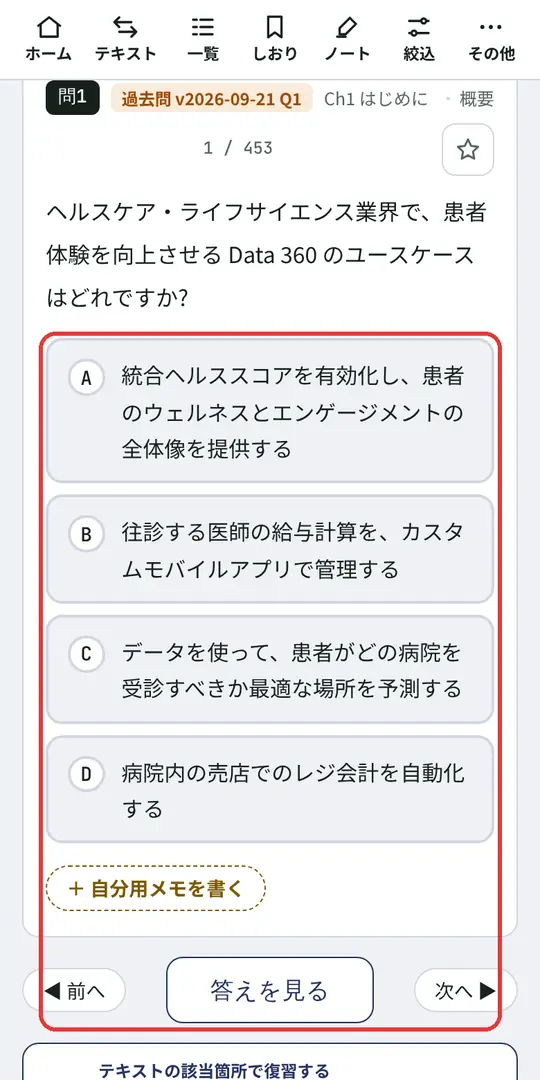
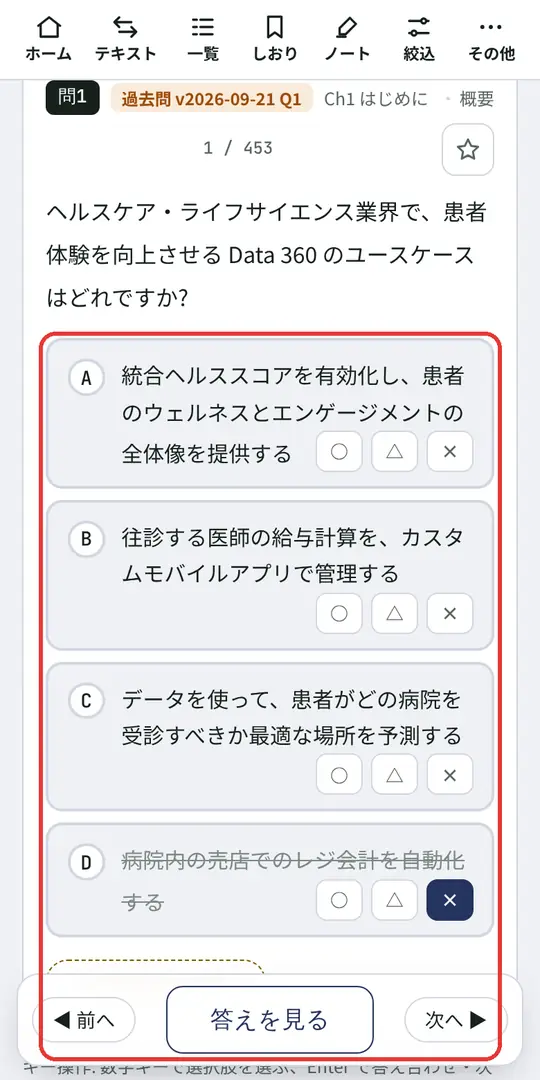
選択肢に「○ △ ×」の自分用の印(社労士版の択一と同じ)
- 問題集(4択・5択・2つ選択・組合せ)とトレーニングの選択肢の右下に ○(正しいと思う)・△(迷っている)・×(誤りだと思う)。
  押しても選択肢は選ばれず、もう一度押すと消える。× は取り消し線。
- 印は文の終わりの空きに重ねるので、短い文は同じ行、長い文は次の行の右端に入る。
- 保存は cs-optmk-v1(問題ごと・アカウントに同期)。答え合わせで隠れてその問題の印は消え、「もう一度解く」はまっさらから。
- 初めて使うまで選択肢の下に説明を出す。使い方・仕様・更新情報と、使い方の画面写真(問題集・トレーニング)を更新。

Claude-Session: https://claude.ai/code/session_01Jp4Dyyf8t6QTx62ivKWhuS

Changed region(s): [[0.0296, 0.3972, 0.9778, 1.0], [0.8889, 0.6722, 0.9185, 0.7028]]

diff --git a/commitstudy/guide/run2.js b/commitstudy/guide/run2.js
@@ -18,7 +18,7 @@ await p.evaluate(()=>{const f=document.querySelector('#f-stream figure');f.scrol
 await p.evaluate(()=>{const li=document.querySelector('#f-stream .co.memo li')||document.querySelector('#f-stream li');li.scrollIntoView({block:'center'});const r=document.createRange();const t=li.firstChild;r.setStart(t,0);r.setEnd(t,Math.min(18,t.length));const s=getSelection();s.removeAllRanges();s.addRange(r);document.dispatchEvent(new Event('selectionchange'));li.dispatchEvent(new MouseEvent('mouseup',{bubbles:true}))});await p.waitForTimeout(600);await shot('text_sel',['.selbar']);
 await p.evaluate(()=>getSelection().removeAllRanges());
 await p.evaluate(()=>{const d=document.querySelector('#f-stream .done-row');d.scrollIntoView({block:'center'})});await shot('text_end',['#f-stream .done-row']);
-await p.go('/d360/#quiz',5500);await p.evaluate(()=>scrollTo(0,120));await shot('quiz',['[data-act="mopt"] ~~ [data-act="check"]']);
+await p.go('/d360/#quiz',5500);await p.evaluate(()=>{const k=[...document.querySelectorAll('.omk [data-omk="x"]')].filter(x=>x.offsetParent);k.length&&k[k.length-1].click()});await p.evaluate(()=>scrollTo(0,120));await shot('quiz',['[data-act="mopt"] ~~ [data-act="check"]']);
 await p.evaluate(()=>{const e=[...document.querySelectorAll('[data-act="mopt"]')].find(x=>x.offsetParent);e.click();const c=[...document.querySelectorAll('[data-act="check"]')].find(x=>x.offsetParent);c.click()});await p.waitForTimeout(700);
 await p.evaluate(()=>{const e=document.querySelector('.banner')||document.querySelector('#qtext');e&&e.scrollIntoView({block:'start'});scrollBy(0,-90)});await shot('quiz_ans',['.exp']);
 await p.evaluate(()=>scrollTo(0,0));await p.click('[data-tc-tab="c"]');await p.waitForTimeout(800);await p.evaluate(()=>scrollTo(0,0));await shot('quiz_cards',['#tcTabs','#tcGo']);await p.click('[data-tc-tab="q"]');await p.waitForTimeout(500);

diff --git a/commitstudy/guide/patch_guide.py b/commitstudy/guide/patch_guide.py
@@ -97,9 +97,10 @@ MARKUP = f"""
   </ul>
  </section>
  <section class="bx gd" id="g-quiz">{H("問題集")}
-  {SHOTS(("quiz", "問題集。選択肢を選んで答え合わせ(選ぶ前は「答えを見る」)"), ("quiz_ans", "答え合わせのあと。解説・回答履歴・根拠のページ"), ("quiz_cards", "上の切り替えで用語カードに。カードを押すと説明、下のボタンで本文のその語句の箇所へ"))}
+  {SHOTS(("quiz", "問題集。選択肢を選んで答え合わせ(選ぶ前は「答えを見る」)。右下の ○ △ × は自分用の印(× で取り消し線)"), ("quiz_ans", "答え合わせのあと。解説・回答履歴・根拠のページ"), ("quiz_cards", "上の切り替えで用語カードに。カードを押すと説明、下のボタンで本文のその語句の箇所へ"))}
   <ul>
    <li>選択式(4択。一部は2つ選ぶ問題、Agentforce スペシャリストは3択)です。答え合わせのあと、正解・不正解のすぐ下に「テキストのこの場所」、その下に解説が出ます。</li>
+   <li><b>○ △ × の印</b>: 答える前は、各選択肢の右下に ○(正しいと思う)・△(迷っている)・×(誤りだと思う)の小さなボタンが出ます。自分用のメモで、押しても選択肢は選ばれません(もう一度押すと消えます)。× を付けた選択肢は文字に取り消し線が付くので、消去法に使えます。印は問題ごとに保存され、開き直しても残ります(アカウントに保存され、ほかの端末でも同じ)。答え合わせ(模擬試験では採点)をすると印は消え、「もう一度解く」ではまっさらな状態から付け直せます。トレーニングの問題でも同じように使えます。</li>
    <li><b>テキストのこの場所</b>: その問題が問われた本文の箇所を、節の本文を縮めた絵で見せます。問われた文は赤い枠で囲み、右の細い帯は節全体の地図(見出し=紺・表=青・図=紫・掛け合い=灰・試験ポイント=緑・たとえるなら=橙)で、見えている範囲を枠、問われた箇所を赤い点で示します。下の「📍 節のおわりのほう ・ 見出し『〜』の下 ・ 表の中」は場所を言葉にしたものです。絵を押すと、テキストのその場所へ移ります。試験中に「テキストのあのあたりに書いてあった」と思い出せるよう、答える前には出しません(場所が示せない問題だけ、答え合わせのあとに「テキストで復習する」のリンクが出ます)。</li>
    <li>上のメニューの「絞込」で、Chapter・項目・出題回(過去問の回。例: v2026-08-04、令和8年度、令和8年度 修了試験、令和8年10月公表)・出典(過去問/オリジナルなど)・状態(未回答・要復習・しおり)を選べます。基本情報技術者と情報セキュリティマネジメントでは「科目A・B」でも絞れ、問題番号の横に科目A・科目Bのどちらの問題かが出ます。第一種衛生管理者では「試験科目」(関係法令・労働衛生の有害業務/有害業務以外と労働生理の5つ)で絞れ、法改正が関わる過去問には、答え合わせのあと解説の下に「法改正の注記」が出ます。絞込の画面の上に「全○問中 ○問に絞り込み中」と、いまの条件で解ける問題の数が出ます。</li>
    <li>問題番号の横に出典のタグ(過去問は回と番号つき・オリジナル・Trailhead)が色分けで出ます。</li>
@@ -112,7 +113,7 @@ MARKUP = f"""
   {SHOTS(("train", "問題。科目・出典・絞り込み・出し方を選んで1問ずつ"), ("cards", "用語カード。カードを押すと裏の説明が出ます"))}
   <ul>
    <li><b>種類と科目</b>: 「種類」(Salesforce・情報処理・その他)で科目をしぼれます。種類を選ぶと、「科目」のボタンがその種類の科目だけになり、「すべて」はその種類の全科目になります。問題・用語カードのどちらでも使えます。</li>
-   <li><b>問題</b>: 全科目の問題を1問ずつ解けます。問題番号の横に出典のタグ(過去問・オリジナル・Trailhead)が出ます。絞り込み(すべて・今日の復習・間違えた問題・まだ解いていない)と、出し方(順番に・ランダム)を選べます。絞り込んだ並びは、絞り込みや出し方を選び直すまでそのまま残るので、解いて条件から外れた問題にも「前へ」で戻れます。「今日の復習」「間違えた問題」「まだ解いていない」は、最後まで解くと「解き終えました」と出て、同じ問題はくり返し出ません(「はじめから」で並びを作り直せます)。</li>
+   <li><b>問題</b>: 全科目の問題を1問ずつ解けます。問題番号の横に出典のタグ(過去問・オリジナル・Trailhead)が出ます。絞り込み(すべて・今日の復習・間違えた問題・まだ解いていない)と、出し方(順番に・ランダム)を選べます。選択肢の右下の ○ △ × で、答える前に自分用の印を付けられます(問題集と共通)。絞り込んだ並びは、絞り込みや出し方を選び直すまでそのまま残るので、解いて条件から外れた問題にも「前へ」で戻れます。「今日の復習」「間違えた問題」「まだ解いていない」は、最後まで解くと「解き終えました」と出て、同じ問題はくり返し出ません(「はじめから」で並びを作り直せます)。</li>
    <li><b>用語カード</b>: 表に用語、裏に説明。「覚えた」を付けたカードは、「まだ覚えていないカード」の絞り込みで外せ、「覚えたカード」で集めて見直せます。右上の☆でしおりを付けたカードは「★しおり」で集められます。</li>
   </ul>
   {SHOTS(("train_full", "カード右上のボタンで全画面に。下の「前へ・答え合わせ・次へ」で進みます"))}

diff --git a/commitstudy/patch_optmk.py b/commitstudy/patch_optmk.py
@@ -2,6 +2,7 @@
   - 問題集(4択・5択・2つ選択・組合せ)とトレーニングの選択肢の右下に、○(正しいと思う)・△(迷っている)・×(誤りだと思う)の小さなボタン。
     もう一度押すと消える。×を付けた選択肢は文字に取り消し線(消去法)。
   - 選択肢のボタンの中には入れず(ボタンの入れ子にしない)、選択肢を包む div の右下に重ねる。印を押しても選択肢は選ばれない。
+    選択肢の文の終わりに印の幅の空き(span.omk-sp)を入れるので、短い文は同じ行に、長い文は次の行の右端に印が来る。
   - 印は答える前だけ。答え合わせ(模擬試験は採点)をすると隠れ、その問題の印は消える(「もう一度解く」で、まっさらな印から解き直す)。
   - 保存は cs-optmk-v1 {"<科目>:<問題番号>": {"<選択肢の番号>": "o"|"t"|"x"}}。アカウントに同期(fam-ls)。問題集とトレーニングで共通。
   - 選択肢の下に「選択肢の ○ △ × は自分用の印です(消去法に使えます)」を、初めて印を使うまで出す(cs-optmk-hint、端末だけ)。
@@ -20,8 +21,10 @@ def rep(old, new, count=1):
 css = (
  ".omr{position:relative;min-width:0}"
  ".omr>.tq-b{width:100%;box-sizing:border-box}"
- ".omr.has-mk>.mcb,.omr.has-mk>.tq-b{padding-bottom:46px}"
- ".omk{position:absolute;right:10px;bottom:8px;display:flex;gap:6px}"
+ # 選択肢の文の終わりに印の幅の空き(omk-sp)を入れ、印をそこへ重ねる。短い文は同じ行に、長い文は次の行の右に入る
+ ".omk-sp{display:inline-block;width:114px;height:30px;margin-left:8px;vertical-align:bottom}"
+ ".omk{position:absolute;right:15px;bottom:12px;display:flex;gap:6px}"
+ ".omr>.tq-b~.omk{right:15px;bottom:11px}"
  ".omk button{width:34px;height:30px;padding:0;border-radius:8px;border:1px solid var(--line);"
  "background:var(--surface,var(--paper,#fff));color:var(--muted,var(--sub,#666));font:inherit;font-size:13px;font-weight:700;line-height:1;cursor:pointer;"
  "-webkit-tap-highlight-color:transparent;touch-action:manipulation}"
@@ -70,7 +73,7 @@ rep('var od=orderOf(q),sel=Array.isArray(a.sel)?a.sel:[],dis=revealed||(S.mode==
     'var od=orderOf(q),sel=Array.isArray(a.sel)?a.sel:[],dis=revealed||(S.mode==="exam"&&S.examDone),h="",SJ=(window.FAMV&&FAMV.id)||"d360",MK=dis?null:csOmk.get(SJ,q.n);if(dis)csOmk.clear(SJ,q.n);')
 old_b = ("""    h+='<button type="button" class="'+c+'" data-act="mopt" data-i="'+i+'"'+(dis?" disabled":"")+' aria-pressed="'+on+'"><b>'+LETM.charAt(pos)+'</b><span>'+esc(q.o[i])+(S.en&&q.oe&&q.oe[i]?'<em>'+esc(q.oe[i])+"</em>":"")+"</span>"+(revealed&&ok?'<i class="mk">正解</i>':"")+"</button>";\n"""
          "  });\n  return h+\"</div>\";\n}")
-new_b = ("""    h+='<div class="omr'+(MK?" has-mk":"")+(MK&&MK[i]==="x"?" x-out":"")+'"><button type="button" class="'+c+'" data-act="mopt" data-i="'+i+'"'+(dis?" disabled":"")+' aria-pressed="'+on+'"><b>'+LETM.charAt(pos)+'</b><span>'+esc(q.o[i])+(S.en&&q.oe&&q.oe[i]?'<em>'+esc(q.oe[i])+"</em>":"")+"</span>"+(revealed&&ok?'<i class="mk">正解</i>':"")+"</button>"+(MK?csOmk.grp(SJ,q.n,i,LETM.charAt(pos)):"")+"</div>";\n"""
+new_b = ("""    h+='<div class="omr'+(MK?" has-mk":"")+(MK&&MK[i]==="x"?" x-out":"")+'"><button type="button" class="'+c+'" data-act="mopt" data-i="'+i+'"'+(dis?" disabled":"")+' aria-pressed="'+on+'"><b>'+LETM.charAt(pos)+'</b><span>'+esc(q.o[i])+(S.en&&q.oe&&q.oe[i]?'<em>'+esc(q.oe[i])+"</em>":"")+(MK?'<i class="omk-sp" aria-hidden="true"></i>':"")+"</span>"+(revealed&&ok?'<i class="mk">正解</i>':"")+"</button>"+(MK?csOmk.grp(SJ,q.n,i,LETM.charAt(pos)):"")+"</div>";\n"""
          "  });\n  return h+\"</div>\"+(MK?csOmk.hint():\"\");\n}")
 rep(old_b, new_b)
 
@@ -78,7 +81,7 @@ rep(old_b, new_b)
 rep("""  h+='<div class="tq-o" role="group" aria-label="選択肢">'+q.o.map(function(o,i){""",
     """  var MK=DONE?null:csOmk.get(q.subj,q.n);if(DONE)csOmk.clear(q.subj,q.n);\n  h+='<div class="tq-o" role="group" aria-label="選択肢">'+q.o.map(function(o,i){""")
 rep("""    return '<button type="button" class="'+c+'" data-i="'+i+'"'+(DONE?" disabled":"")+'><b>'+"ABCDEFGHIJ".charAt(i)+'</b><span>'+esc(o)+'</span></button>'}).join("")+'</div>';""",
-    """    return '<div class="omr'+(MK?" has-mk":"")+(MK&&MK[i]==="x"?" x-out":"")+'"><button type="button" class="'+c+'" data-i="'+i+'"'+(DONE?" disabled":"")+'><b>'+"ABCDEFGHIJ".charAt(i)+'</b><span>'+esc(o)+'</span></button>'+(MK?csOmk.grp(q.subj,q.n,i,"ABCDEFGHIJ".charAt(i)):"")+'</div>'}).join("")+'</div>'+(MK?csOmk.hint():"");""")
+    """    return '<div class="omr'+(MK?" has-mk":"")+(MK&&MK[i]==="x"?" x-out":"")+'"><button type="button" class="'+c+'" data-i="'+i+'"'+(DONE?" disabled":"")+'><b>'+"ABCDEFGHIJ".charAt(i)+'</b><span>'+esc(o)+(MK?'<i class="omk-sp" aria-hidden="true"></i>':"")+'</span></button>'+(MK?csOmk.grp(q.subj,q.n,i,"ABCDEFGHIJ".charAt(i)):"")+'</div>'}).join("")+'</div>'+(MK?csOmk.hint():"");""")
 
 # ---- アカウントに同期 ----
 rep("`cs-home-layout`,`cs-plan-v1`]", "`cs-home-layout`,`cs-plan-v1`,`cs-optmk-v1`]")

diff --git a/commitstudy/spec/patch_spec.py b/commitstudy/spec/patch_spec.py
@@ -130,6 +130,7 @@ MARKUP = f"""
    <li>番号の表示(問N)は、絞り込んだ並びの中での通し番号です。記録は元の番号(id)のまま持ちます。</li>
    <li>開き直すと、絞り込みを計算し直した並びの中で、前回見ていた問題から再開します。</li>
    <li>答えた結果は、回答の集計 <code>hist[id]</code>(回数・正解数・最後の結果・時刻)と、回答履歴 <code>log</code>(番号・選んだ選択肢・正誤・時刻・問題集かトレーニングか)に入ります。</li>
+   <li>選択肢の ○ △ × の印(<code>patch_optmk.py</code>)は、選択肢のボタンを包む <code>div.omr</code> の右下に重ねたボタンの組です(ボタンの入れ子にしない)。選択肢の文の終わりに印の幅の空き <code>span.omk-sp</code> を入れるので、短い文は同じ行、長い文は次の行の右端に来ます。押したときは window の捕捉段階で処理して止めるので、選択肢の選択やほかのクリック処理には届きません。保存は <code>cs-optmk-v1</code> <code>{{"&lt;科目&gt;:&lt;id&gt;": {{"&lt;選択肢の番号&gt;": "o"|"t"|"x"}}}}</code>(問題集とトレーニングで共通、fam-ls で同期)。答え合わせのあと(模擬試験は採点のあと)に描くとき、その問題の印を消します。選択肢の下の説明は、初めて印を使うまで出します(<code>cs-optmk-hint</code>、端末だけ)。</li>
    <li>本文の該当箇所には「問題 N」の印が付き、押すとその箇所の問題を一覧します(全問正解なら緑)。</li>
    <li>答え合わせのあとの「テキストのこの場所」は、節の article を <code>cloneNode(true)</code> で写して約0.56倍に縮め、高さ230pxの窓に x の文が真ん中に来るよう置きます。赤枠の点滅(2回)は、場所の絵が画面に6割以上入ってきたとき(IntersectionObserver)に出し、いったん画面から出てまた入るともう一度出します。写しからは id・data-sec・マーカーの data-k/h/t などを外し、inert・aria-hidden を付けます(マーカー・暗記・検索・目次の追跡・表の見出しの追従に数えない)。列の幅は、テキストを見たときの幅を画面の幅ごとに <code>cs-csloc-w-v1</code>(端末だけ)に控えて使い、ない幅は同じ種類の画面の幅から見積もります。窓と写しを ResizeObserver で見て描き直します(<code>patch_csloc.py</code>)。</li>
    <li>テキストの右端の「節の地図」は、いまの節の直下の要素を色の帯にし、見えている範囲を枠で出します。表示の設定 <code>prefs.csmap</code>(on/off)はほかの表示の設定と同じく保存・同期します。</li>
@@ -142,7 +143,7 @@ MARKUP = f"""
     [C("data/users/&lt;ID&gt;/&lt;科目&gt;-quiz"), "問題集: 回答の集計・回答履歴・しおり・絞り込みと位置"],
     [C("…/&lt;科目&gt;-study"), "テキスト: 理解した項目・しおり・マーカーとメモ・前回の位置"],
     [C("…/&lt;科目&gt;-act"), "学習量: 日ごとの解いた数・正解数・読んだ項目(端末ごとの数)"],
-    [C("…/fam-ls"), "端末の記録のうち同期するもの(用語カードの覚えた・復習の予定・合格した科目・お気に入りの仲間・既読・ホームのカスタマイズ cs-home-layout・学習計画 cs-plan-v1 など)"],
+    [C("…/fam-ls"), "端末の記録のうち同期するもの(用語カードの覚えた・復習の予定・合格した科目・お気に入りの仲間・既読・ホームのカスタマイズ cs-home-layout・学習計画 cs-plan-v1・選択肢の○△×の印 cs-optmk-v1 など)"],
     [C("…/fam-theme"), "テーマ(自動・ライト・ダーク)"],
   ])}
   <p>合わせ方の決まり(<code>window.CSQ</code>):</p>

diff --git a/commitstudy/patch_news.py b/commitstudy/patch_news.py
@@ -5,6 +5,10 @@ import sys
 src, out = sys.argv[1:3]
 s = open(src, encoding="utf-8").read()
 NEWS = [
+ ("2026-11-19", "新機能", "選択肢に「○ △ ×」の自分用の印を付けられるようにしました", [
+   "社労士版の択一と同じく、問題集とトレーニングで、答える前に各選択肢の右下の ○(正しいと思う)・△(迷っている)・×(誤りだと思う)を押して印を付けられます。押しても選択肢は選ばれず、もう一度押すと消えます",
+   "× を付けた選択肢は文字に取り消し線が付くので、消去法に使えます。印は問題ごとに保存され、開き直しても残ります(アカウントに保存)。答え合わせをすると印は消え、「もう一度解く」ではまっさらな状態から解き直せます",
+ ]),
  ("2026-11-19", "改善", "第一種衛生管理者のテキストの最初に「試験の概要と受け方」を追加", [
    "基本情報技術者・情報セキュリティマネジメントと同じく、Chapter 1 の最初の項目で、どういう試験かをまとめました。衛生管理者が必要な事業場、第一種と第二種の違い、受験資格、出題形式と配点、合格基準と足切りの例、特例(第二種の免許を持つ人)と労働生理の免除、試験範囲(衛生管理者規程)とテキストの章の対応、受験のしかたと免許の申請、合格率(令和7年度)、公表問題を載せています",
    "内容は安全衛生技術試験協会の公式ページと衛生管理者規程・労働安全衛生法令で確かめた、2026年11月時点のものです。Chapter 1 のほかの項目の番号は1つずつ下がりました(Ch1·1→Ch1·2 など)。読んだ印(理解した)はそのまま残ります",
